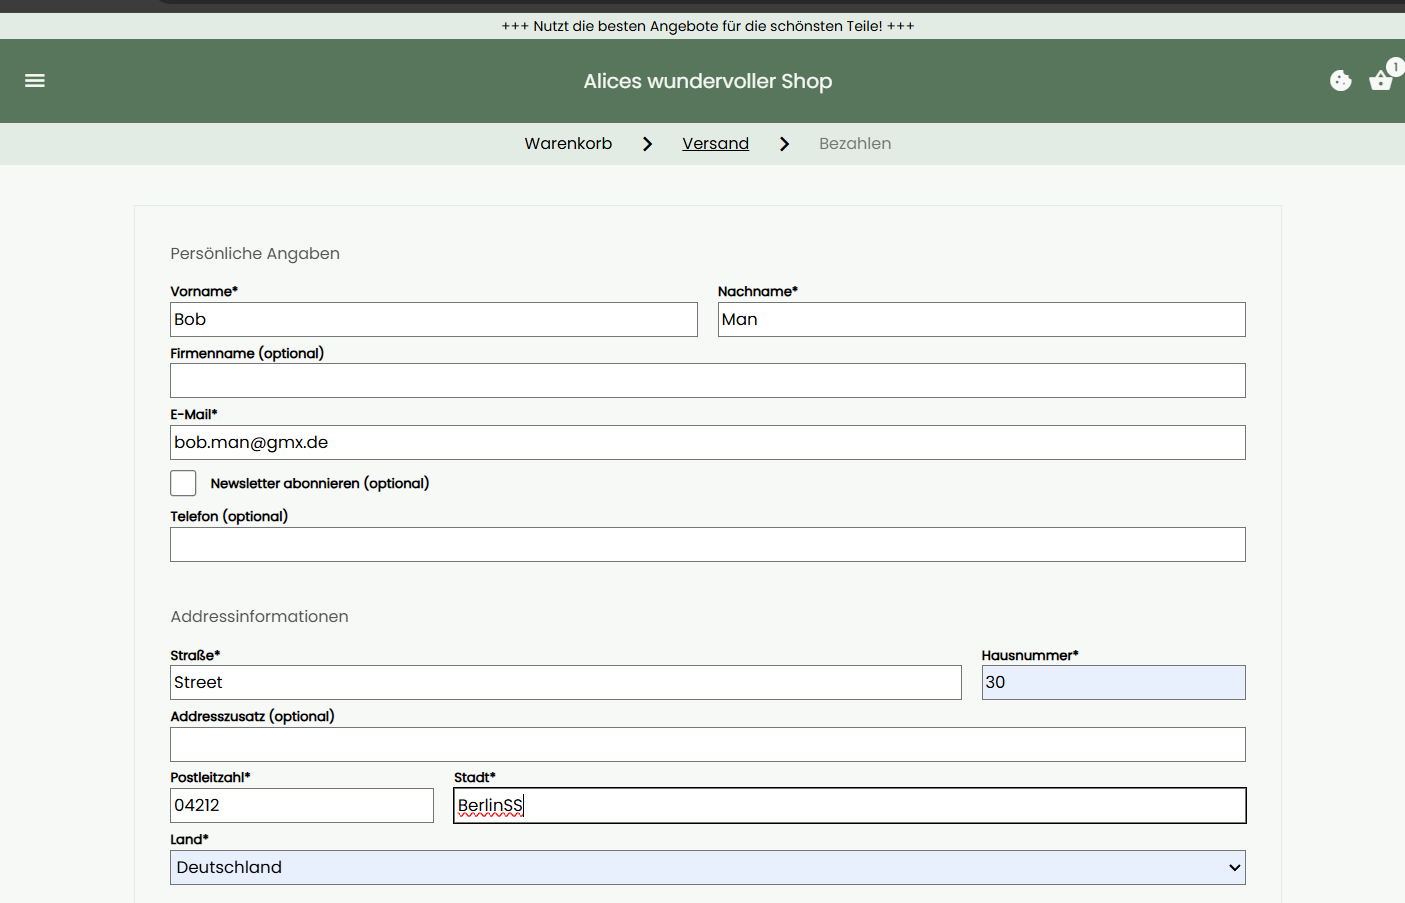
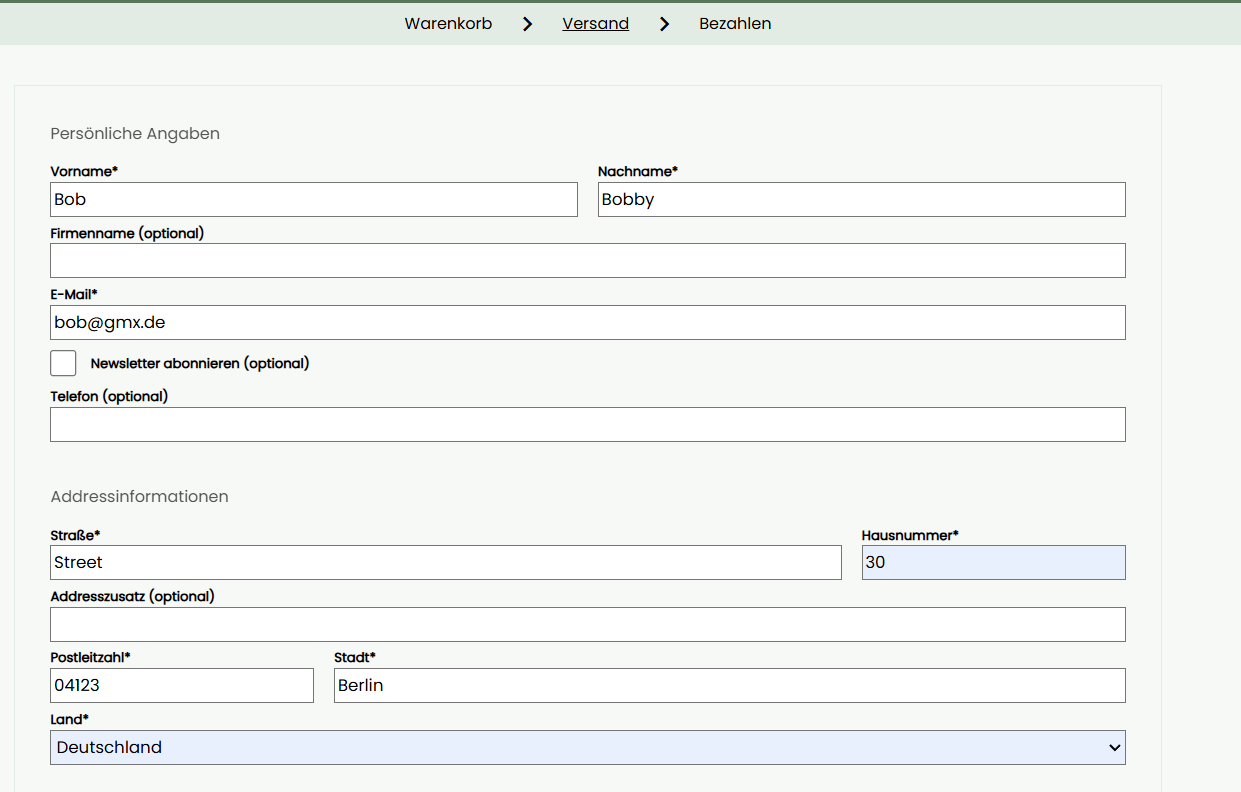
doc: read me extended with tech

diff --git a/README.md b/README.md
@@ -11,23 +11,47 @@ Aside from lacking features, the final step of a productive/test deployment is n
 
 Using an arbitrary color scheme and the german internationalized resources, we might get that starting page:
 ![alt text](assets/image.png)
+
 Mobile:
 ![alt text](assets/image-1.png)
+
 As you see, the exemplary shop ("Alices wundervoller Shop") is a pottery shop, some pictures are supplied. \
 Within the product show sites, we have some basic actions and product infos:
 ![alt text](assets/image-2.png)
+
 The checkout process is modelled as a breadcrumb path, collecting address info and redirecting to stripe:
 ![alt text](assets/image-3.png)
+
 ... supply address info and shipping info ...
 ![alt text](assets/image-4.png)
+
 ... you are redirected to the stripe payment form if you process further ...
 ![alt text](assets/image-5.png)
+
 After a successful checkout, you can track your order...
 ![alt text](assets/image-6.png)
+
 ... and you get an email with an invoice, which has a very basic template, but can be prettified.
 ![alt text](assets/image-7.png)
 
 # Structure and Tech
+
+The project mainly consists of a backend (ASP .NET Core Web API) and a frontend (Angular SPA). \
+The implementation includes and employs the following tech/practices/dependencies:
+
+- SQL Server as a database using EF Core as ORM and FluentMigrator for migrations
+- checkout workflow as an anonymous user
+- double submit approach for implementing an anti-forgery token with the API and SPA (Cookie and Header)
+- serving images and documents via the file storage system SeaweedFS including a creation workflow for invoices
+- creating PDF-invoices utilizing a templating engine to fill a html that gets converted by the PDF converter service Gotenberg
+- sending E-Mails using MailKit
+- payment via interfacing the Stripe API - that covers a secure payment handling utilizing the stripe payment form, using the webhook upon succeeded payment and handling those results
+- setup for not yet implemented features: collecting newsletter email, presenting cookie (Datenschutz) information extendible for further use of private data
+- source generator mapper Mapperly
+- minimal test setup (no exhaustive coverage yet)
+
+The project includes Dockerfiles for the API and the frontend, and a Docker-compose file to start these two and the depending services/database. \
+Two basic github action workflows build and test the projects parts.
 
 # Run with Docker
 
